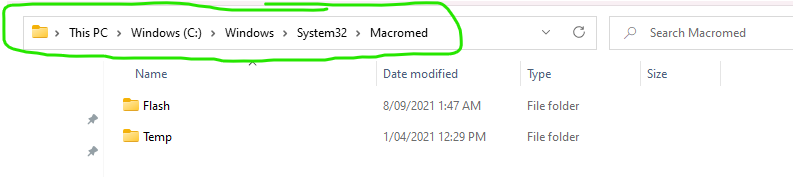
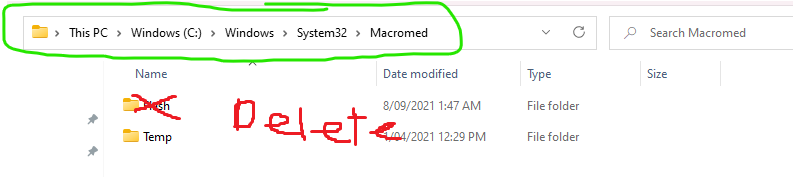
update README.md

Changed region(s): [[0.2724, 0.565, 0.5145, 0.8192], [0.1513, 0.5367, 0.2421, 0.6497], [0.2119, 0.6497, 0.2421, 0.678]]

diff --git a/README.md b/README.md
@@ -32,11 +32,11 @@
 4. Restart Your computer.
 
 ## Still not working????
-1. Locate the filepath `C:\Windows\System32\Macromed\`
+1. Locate the filepath `C:\Windows\System32\Macromed\` & DELETE the Flash folder
 ![mflash_step_1](./stuck_at_connecting_tutorial/M_flash_s1.png)
 2. Download Flash.rar [(click here to download)](https://github.com/nicknggt/Grimlite-Li-GBOT/releases/download/Macromed_Flash_sys32/Flash.rar)
 3. After download it, open the downloaded file by *WinRar Archive* or any other extracting software you know (example: [7zip](https://www.7-zip.org/download.html), etc.)
-4. Drag the Flash folder to the filepath to overwrite the existing one
+4. Drag the Flash folder to that filepath
 ![mflash_step_4](./stuck_at_connecting_tutorial/M_flash_s4.png)
 5. Restart your PC if it's not working.
 
